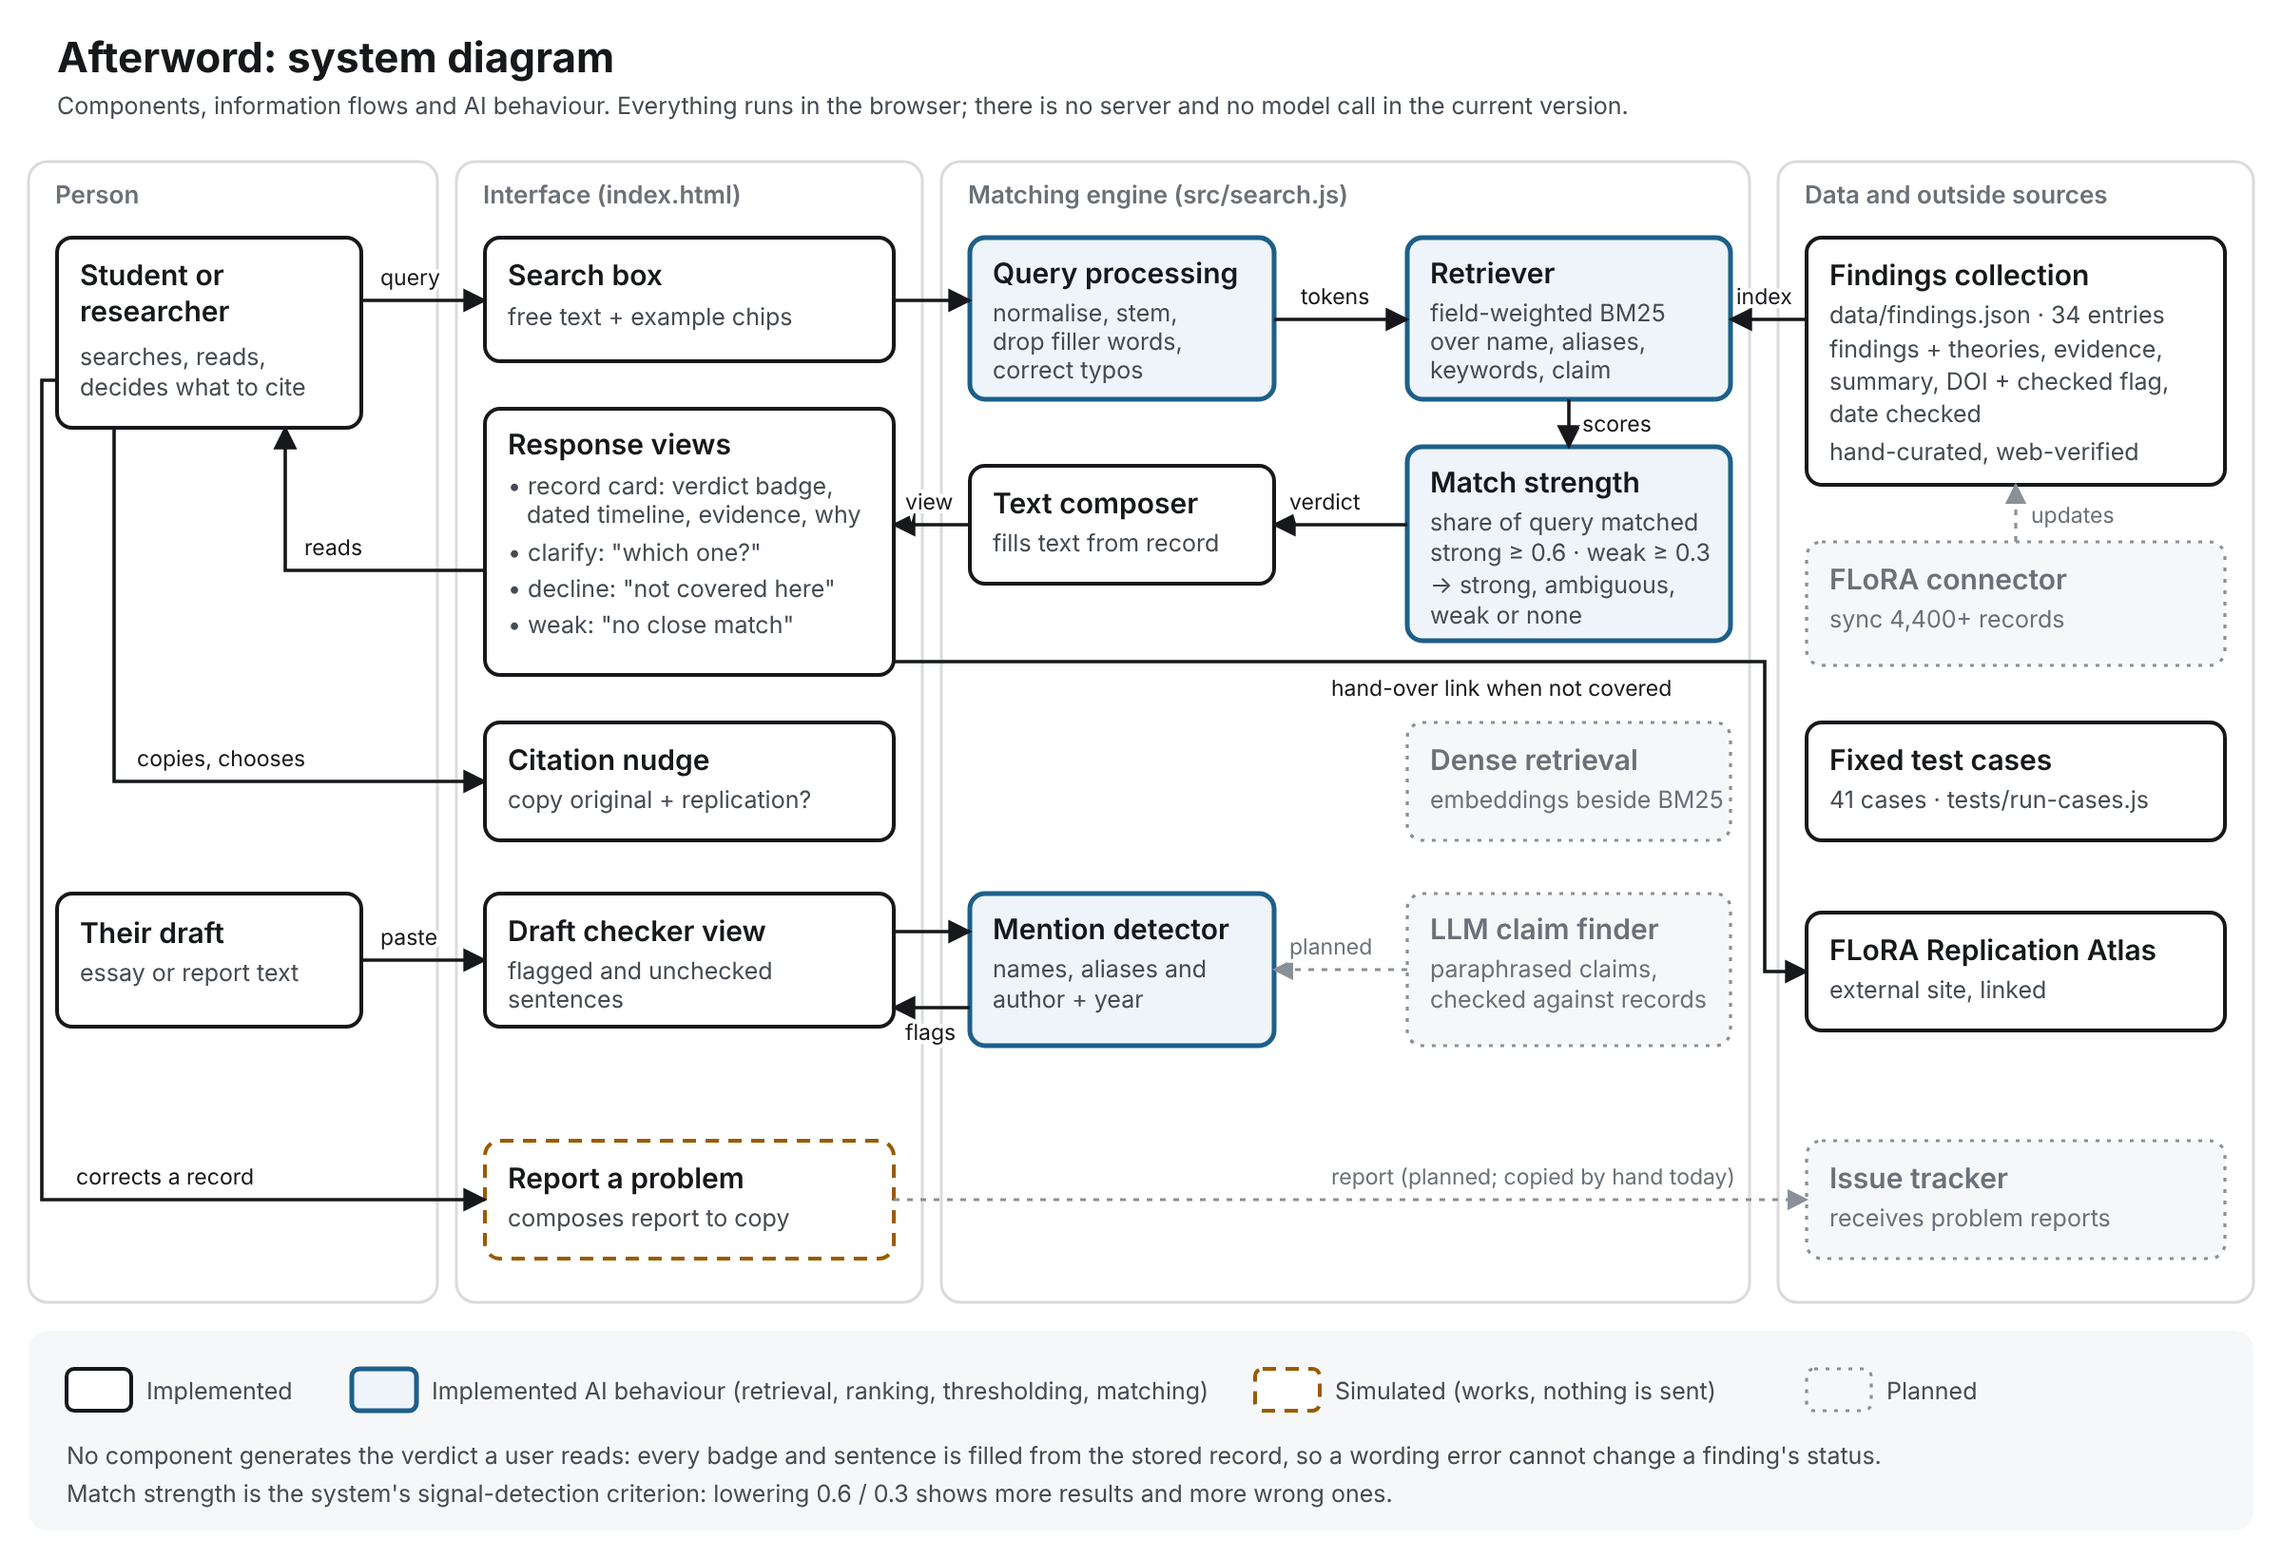
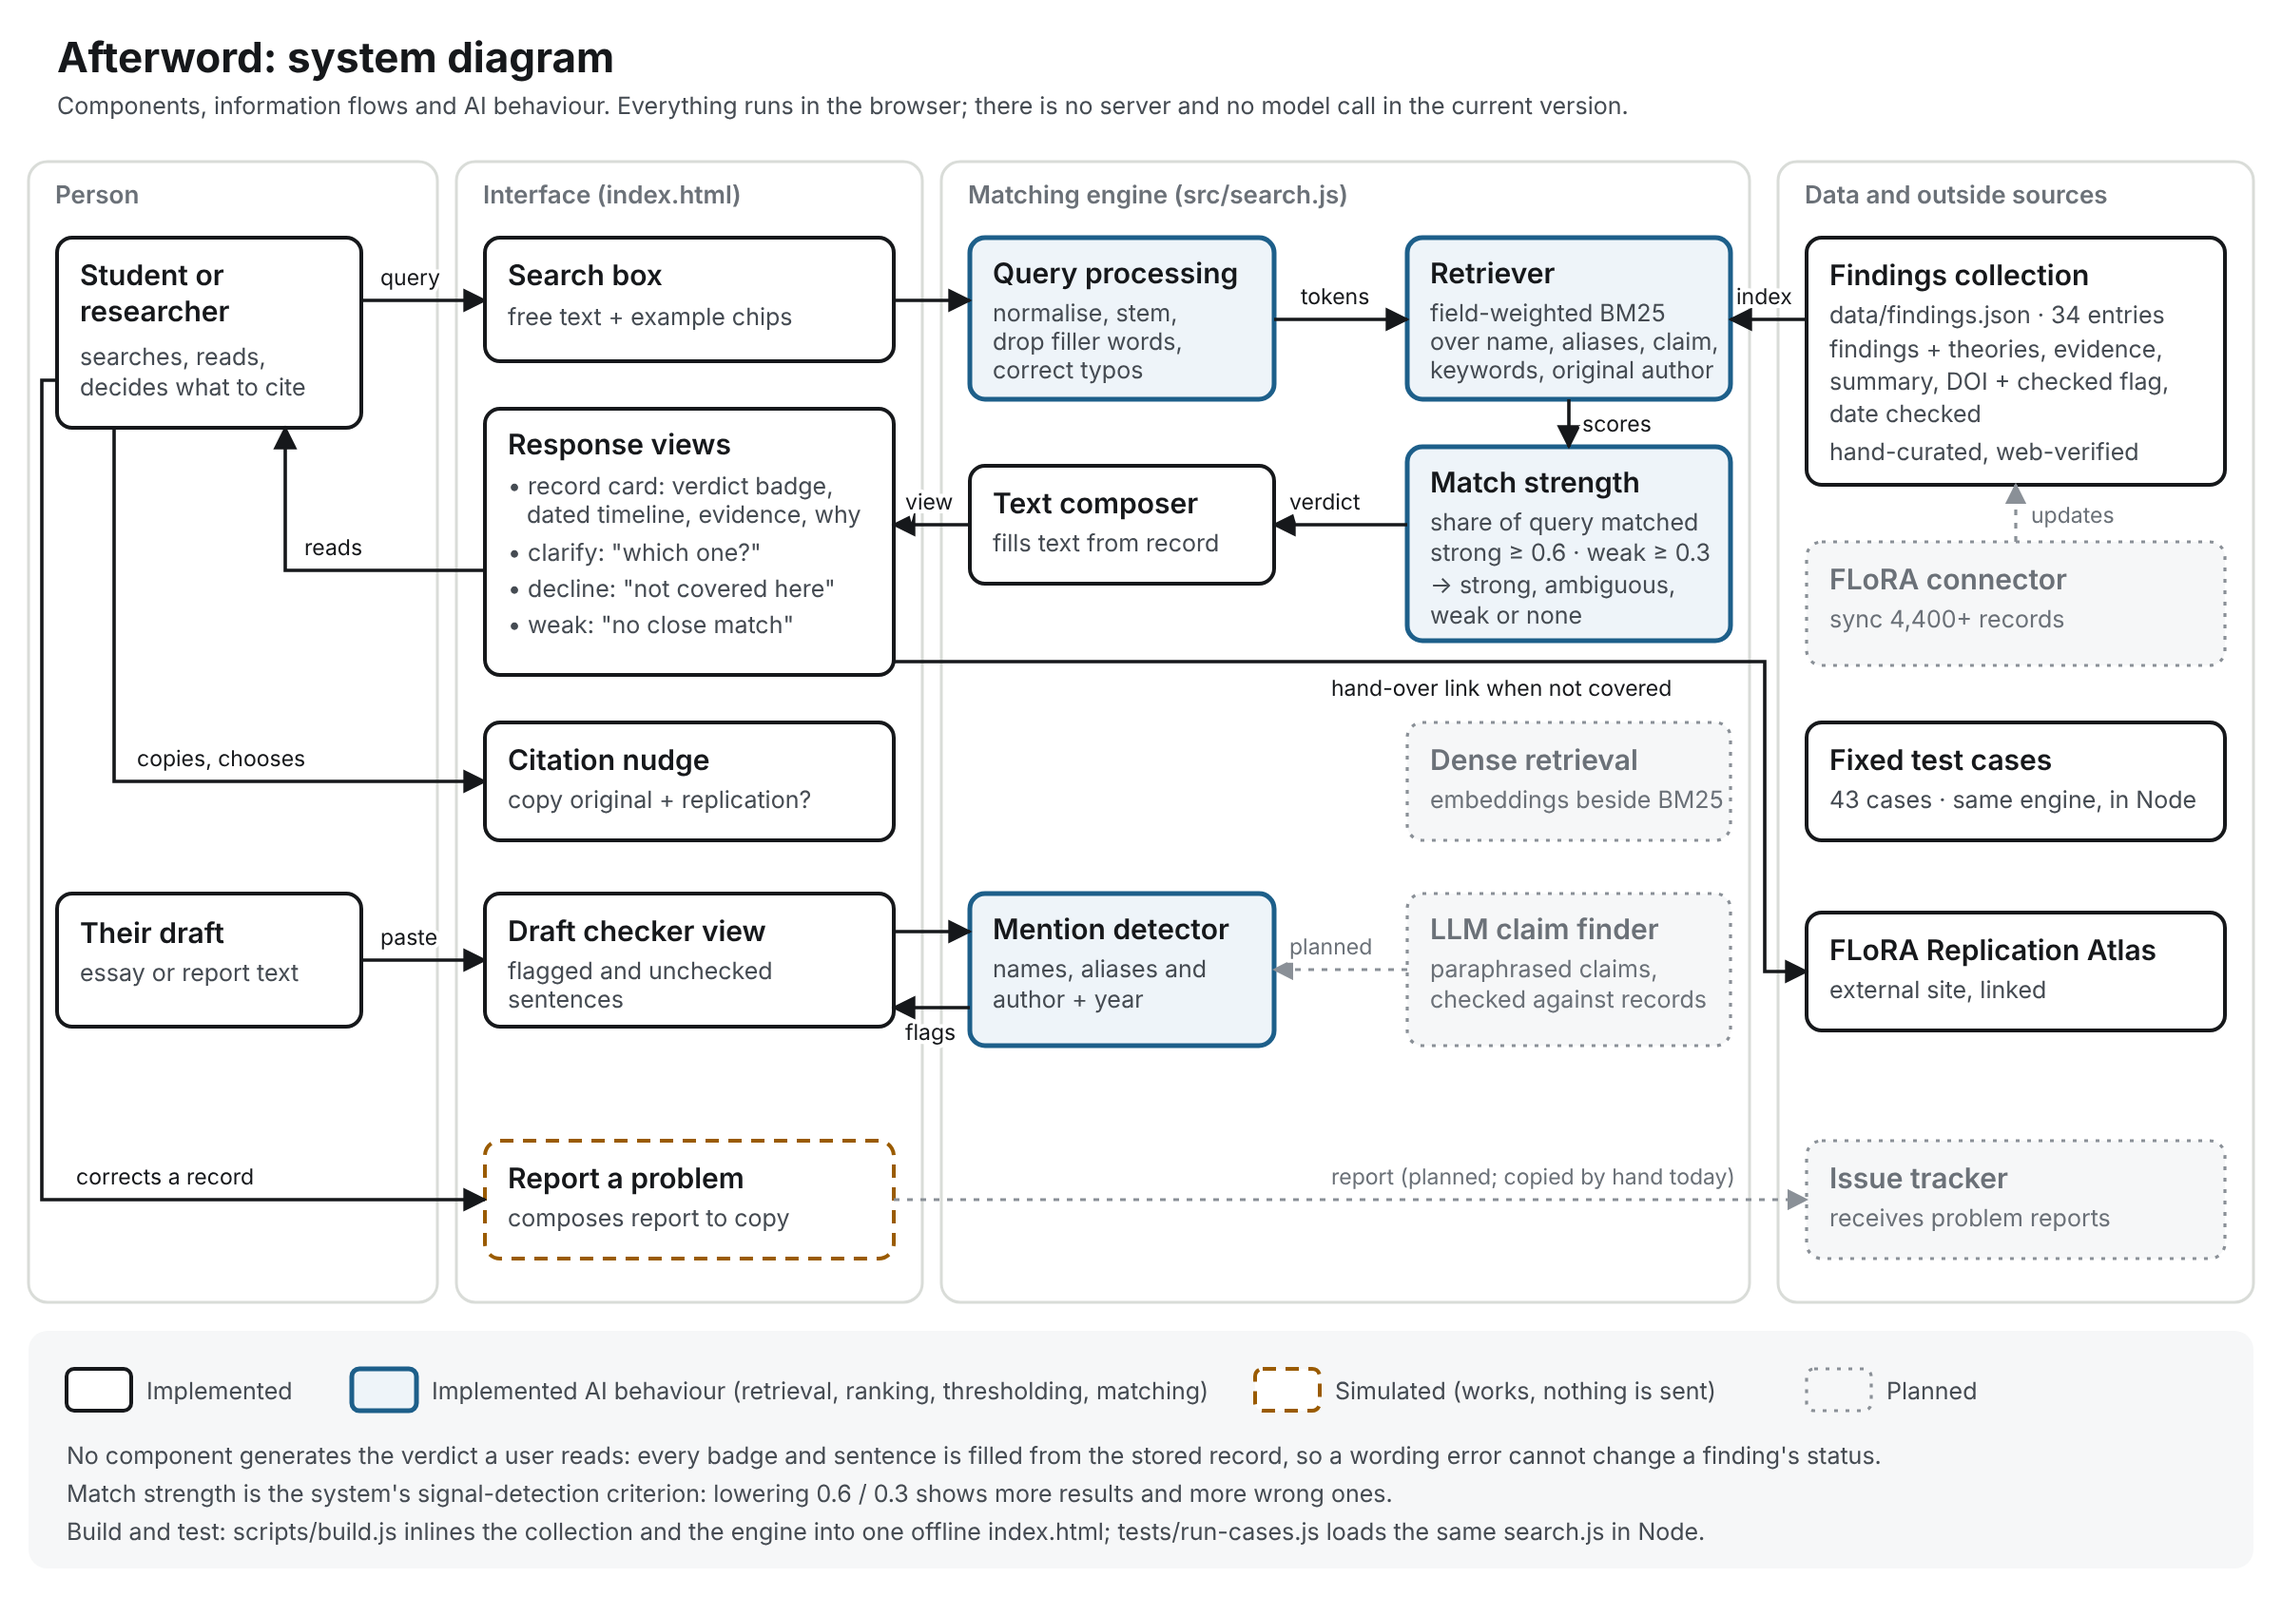
Attribute development record accurately; update diagram
README development record and AI assistance now say which decisions were
the student's and which work Claude did. Diagram shows original author as
an indexed field, 43 cases, and the build/test flow.

Claude-Session: https://claude.ai/code/session_01TjgmqjTGHHcwnzcaoRJosp

diff --git a/README.md b/README.md
@@ -1,6 +1,6 @@
 # Afterword: replication-aware search for psychology findings
 
-*README prose: about 1240 words (code, commands, tables of file paths and the commit list are not counted).*
+*README prose: about 1300 words (code, commands, tables of file paths and the commit list are not counted).*
 
 Afterword lets a student or researcher look up a psychology finding or theory by name or plain description (from ego depletion to the Oedipus complex or Jung's shadow) and see, before they cite it, what later research found. It is the developed system for Intelligent Interactive Systems Assignment 2. It continues the Assignment 1 question: does showing uncertainty at the moment of search change what readers conclude?
 
@@ -66,31 +66,33 @@ Things to try in Search: `willpower runs out` (alias match), `oedipal complex` a
 
 ## Development record
 
-1. **Change of domain** (before the first commit). Assignment 1 reviewed OCR-degraded newspaper archives, where readers wrongly conclude material is absent. I moved to psychology research tools because I want to build on this beyond the module. The interaction problem stayed the same: a reader draws a confident conclusion that the system's output does not support, because the system hides how far its answer can be trusted.
-2. **Prior art narrowed the claim.** While verifying data I found FORRT's FLoRA Replication Atlas, which already records replication outcomes for 4,400+ findings and has a Zotero plugin. So the contribution is not a database. It is the interaction: getting replication status in front of someone at the moment they search or cite, by phenomenon name rather than DOI, with honest behaviour when the collection has no answer.
-3. **Collection and verification** (`6addf47`). 21 findings were chosen to include failed, mixed and robust cases, so the badge is not always red. Each outcome was checked against the replication paper's own abstract or record. DOIs were checked by search, and the 5 I could not check are flagged in the data and in the interface.
-4. **Search engine and fixed cases** (`6addf47` → `694896e`). I wrote 26 test cases before tuning (Lecture 09's fixed-case loop). The first run passed 22 of 26:
+Each item says who did what. "Claude" means Claude (Anthropic), used in the Claude app; see *AI assistance*.
+
+1. **Change of domain** (my decision, before the first commit). Assignment 1 reviewed OCR-degraded newspaper archives, where readers wrongly conclude material is absent. I dropped my first plan (Gurmukhi archives) and chose psychology, because I want to build on this project beyond the module. The interaction problem stayed the same: a reader draws a confident conclusion that the system's output does not support, because the system hides how far its answer can be trusted.
+2. **Choosing the idea** (my decision). I asked Claude for project ideas in psychology or philosophy and AI, and chose replication-aware search from the options it gave.
+3. **Prior art narrowed the claim.** Claude's verification searches turned up FORRT's FLoRA Replication Atlas, which already records replication outcomes for 4,400+ findings and has a Zotero plugin. So the contribution is not a database. It is the interaction: getting replication status in front of someone at the moment they search or cite, by everyday name rather than DOI, with honest behaviour when the collection has no answer.
+4. **Collection and verification** (`6addf47`, Claude). Claude chose 21 findings to include failed, mixed and robust cases, so the badge is not always red, checked each outcome against the replication paper's abstract or record, and checked DOIs by web search. Where sources disagreed (the Mozart effect), it recorded "mixed" with a note. DOIs it could not check are flagged in the data and in the interface.
+5. **Search engine and fixed cases** (`6addf47` → `694896e`, Claude). Claude wrote 26 test cases before tuning (Lecture 09's fixed-case loop). The first run passed 22 of 26:
    - Sentence splitting broke "et al. (1998)", so citations were never detected. Fixed.
    - Filler words ("get", "used") counted as unmatched and lowered match strength. Fixed.
    - Two expectations were wrong: "self-control in children" should find the marshmallow test. Revised with a note in `cases.json`.
    - "priming" matched six findings equally. This became a new **ambiguous** state with a clarify turn, rather than a ranked list.
 
    After the fixes, all 26 pass.
-5. **Interface** (`bc380bb`). This added the four response states, the evidence timeline, the "why this matched" line, the citation nudge, the draft checker and the collection view. Reviewing screenshots led to further fixes: matched words were shown as stems ("pos"); the mixed-evidence icon did not render; only some replication years were labelled; and author lists like "Vohs, Schmeichel et al." were abbreviated wrongly.
-6. **Diagram, storyboards, README.** I redrew the first diagram because its arrows crossed and the labels collided. The storyboards are built from real screenshots of the running app.
-7. **Renamed HoldsUp to Afterword** (18 Nov). The new name frames replications as the later part of a finding's story rather than as a takedown, which fits the system's calm, non-alarmist wording. I updated the code identifiers, interface text, diagram, storyboards and report; behaviour is unchanged and all 26 cases still pass.
-8. **Added classic theories** (18 Nov). I added 13 entries for Freud, Jung, Adler, Maslow, CBT, learned helplessness and cognitive dissonance. Most of these theories were never one experiment that could replicate, so I added a fourth verdict, **no direct test**, and type-specific wording ("supported" rather than "replicated" for theories). This separates two states the interface had blurred: a claim the collection doesn't cover (decline) and a claim it covers that nobody has tested. Where researchers still disagree, such as repression and the CBT decline debate, the record shows both sides. I added 15 test cases before running them; all 41 pass.
-9. **Oedipus record corrected** (18 Nov). The record had implied Popper was the last word on whether the Oedipus complex can be tested. Popper's critique was of psychoanalysis in general, and Grünbaum (1984) argued against it that Freud's claims are testable. I added Grünbaum as a counter-critique and Bereczkei et al. (2004) on sexual imprinting as indirect evidence, and marked the record as contested. One new test case expected a search for "grunbaum" to find the record; it didn't, because only original authors are indexed. I kept that as a documented limit rather than widening the index the day before submission. 43/43 pass.
+6. **Interface** (`bc380bb`, Claude). This added the four response states, the evidence timeline, the "why this matched" line, the citation nudge, the draft checker and the collection view. Claude's screenshot review led to fixes: matched words were shown as stems ("pos"); the mixed-evidence icon did not render; only some replication years were labelled; author lists like "Vohs, Schmeichel et al." were abbreviated wrongly.
+7. **Diagram, storyboards, README** (`dd59d2e`, Claude). The first diagram was redrawn because its arrows crossed and labels collided. The storyboards are built from real screenshots of the running app.
+8. **Rename** (`b17d615`; my decision). I asked for a different name than HoldsUp and chose Afterword from Claude's suggestions. Claude updated the code, interface, diagram, storyboards and report; behaviour is unchanged and all 26 cases still pass.
+9. **Classic theories and a fourth verdict** (`980ddec`; my requirement, Claude's implementation). I asked for Freud, Jung, Adler, CBT and similar theories, so that searches like "oedipal complex" or "shadow work" return a record whether or not the theory was ever verified. That requirement showed the three-level verdict could not say "never tested", so Claude added a fourth verdict, **no direct test**, with theory-specific wording ("supported" rather than "replicated"). It separates a claim the collection doesn't cover (decline) from one it covers that nobody has tested. Contested records (repression; the CBT decline debate) show both sides. Claude wrote 15 test cases before running them; all 41 pass.
+10. **Oedipus record corrected** (`fbacb7f`; my challenge). The record said Popper used the Oedipus complex as an example of an unfalsifiable claim. I questioned that, because I thought evidence could be found for or against it. Claude checked: Popper's critique was of psychoanalysis in general, and Grünbaum (1984) argued against him that Freud's claims are testable. Claude added Grünbaum as a counter-critique and Bereczkei et al. (2004) on sexual imprinting as indirect evidence, and marked the record contested. A new test case expected a search for "grunbaum" to find the record; it didn't, because only original authors are indexed. That is kept as a documented limit rather than widening the index just before submission. 43/43 pass.
 
 ## AI assistance
 
-I used **Claude (Anthropic)** in the Claude app throughout. A few examples:
-- **Choosing and scoping the idea:** I asked for project ideas at the psychology/philosophy and AI intersection and chose replication-aware search from four options. The decision and the A1 link are mine.
-- **Data:** Claude searched the web for each finding's replication record and drafted the paraphrased summaries. I checked each outcome against the cited paper's abstract, kept the 5 unverified DOIs visibly flagged, and changed the Mozart effect from "did not replicate" to "mixed" when sources disagreed.
-- **Code:** Claude drafted `search.js`, the interface and the build script. I ran the fixed test cases and screenshot reviews; the failures and fixes are listed in the development record.
-- **Documents:** Claude drafted this README, the diagram and storyboard captions, and a first report draft, which I then reviewed and reworded.
+I used **Claude (Anthropic)** in the Claude app throughout.
 
-*Before submitting, replace or confirm these lines so they describe exactly what you checked or changed yourself.*
+- **What Claude did:** proposed project ideas and names; searched for and summarised the replication records; checked DOIs by web search; wrote `search.js`, the interface, the build script and the test cases; ran the tests and screenshot reviews; drew the diagram and storyboards; drafted this README and the report.
+- **What I decided:** the domain, the project idea, the name, the requirement that untested theories still appear, and the report's argument from my Assignment 1 review.
+- **Where I changed Claude's output:** the theories requirement (item 9) changed the verdict design; my challenge to the Oedipus record (item 10) corrected a claim Claude had written.
+- **Checks I did myself:** TODO before submitting. List only what you actually did, for example: ran `node tests/run-cases.js`; tried my own searches in `index.html`; checked the 6 flagged DOIs; compared a sample of records with the papers' abstracts; reworded the report.
 
 ## Additional files
 
